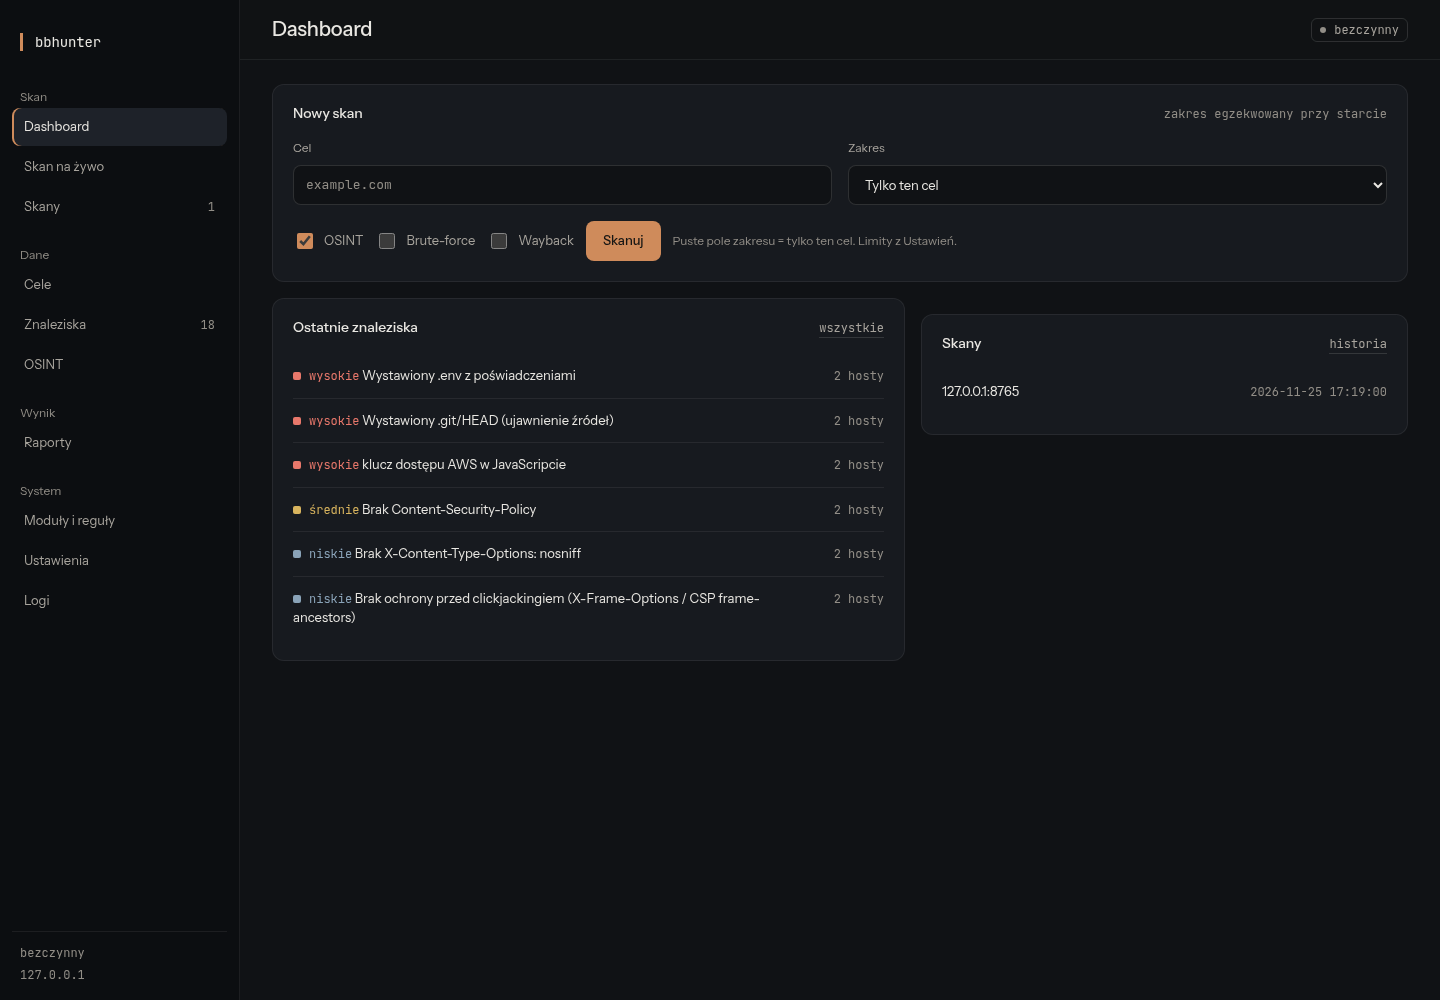
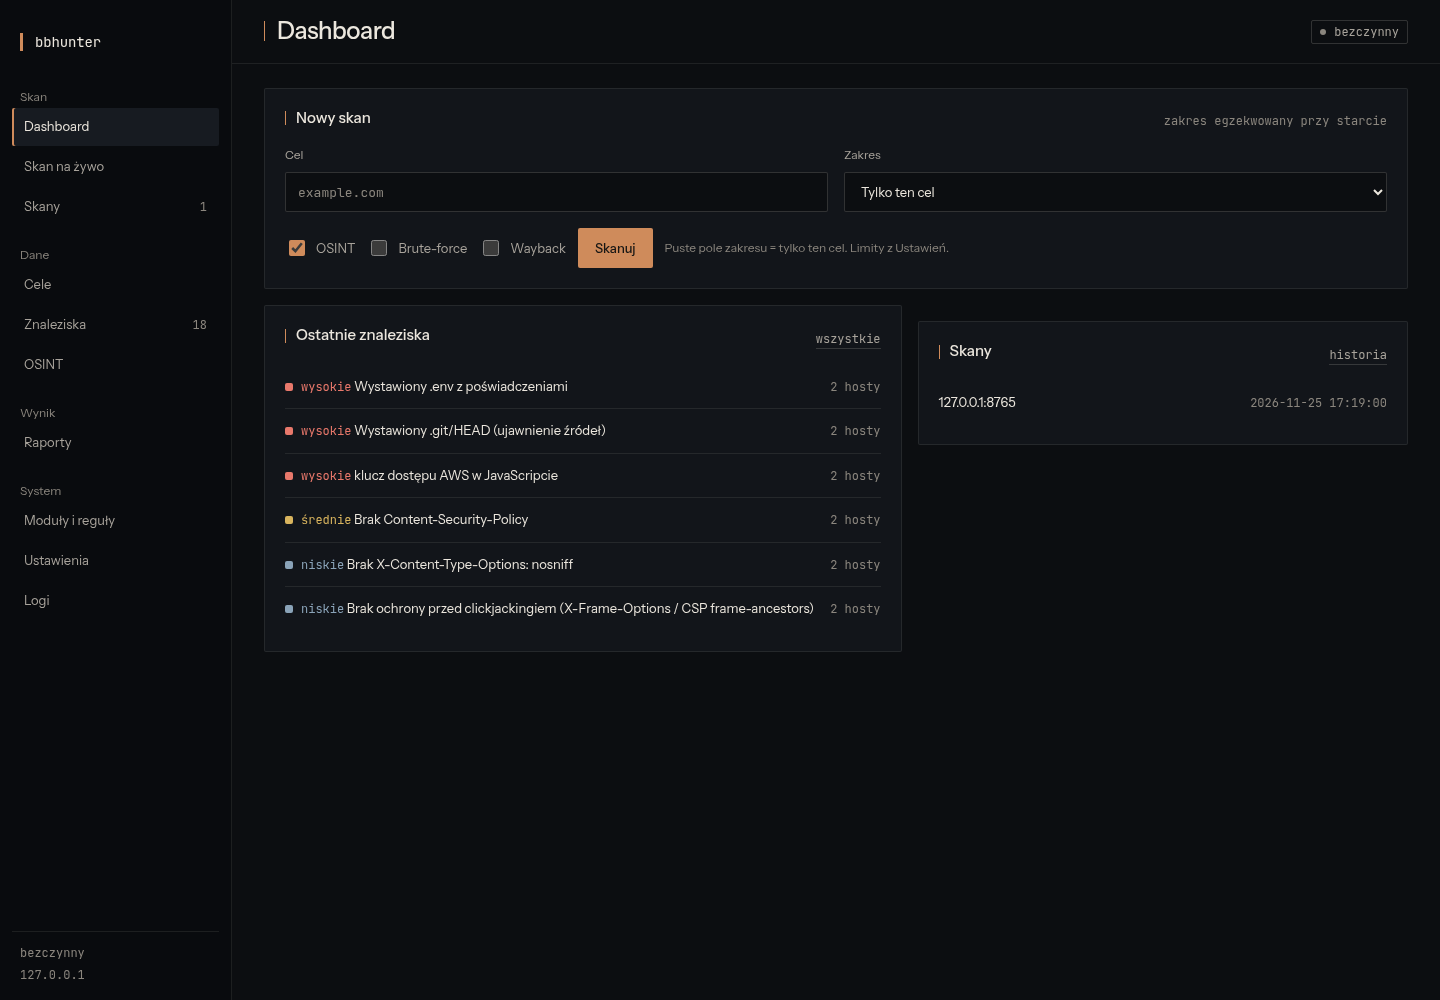
design: apply the product page language to the app shell
- cooler graphite palette, flat 2 px panels, copper primary action
- ticks before page and panel titles, mono labels, larger page title
- screenshots refreshed on the demo output only

diff --git a/src/ui/ui.css b/src/ui/ui.css
@@ -15,21 +15,21 @@
 }
 
 :root {
-  --app-bg: #101215;
-  --app-rail: #0c0e11;
-  --app-surface: #171a1f;
-  --app-raised: #1e2229;
-  --app-line: rgba(233, 231, 226, 0.08);
-  --app-line-strong: rgba(233, 231, 226, 0.14);
-  --app-text: #e9e7e2;
-  --app-text-2: #a8a49d;
-  --app-muted: #928e87;
+  --app-bg: #0c0e11;
+  --app-rail: #090b0e;
+  --app-surface: #12151a;
+  --app-raised: #171b21;
+  --app-line: rgba(236, 231, 222, 0.09);
+  --app-line-strong: rgba(236, 231, 222, 0.17);
+  --app-text: #ece7de;
+  --app-text-2: #a8a39b;
+  --app-muted: #8b867e;
   --ok: #8fb996;
-  --radius-panel: 12px;
-  --radius-control: 8px;
-  --radius-chip: 6px;
-  --rail-w: 240px;
-  --top-h: 60px;
+  --radius-panel: 2px;
+  --radius-control: 2px;
+  --radius-chip: 2px;
+  --rail-w: 232px;
+  --top-h: 64px;
 }
 
 html {
@@ -231,14 +231,25 @@ textarea {
   padding-inline: var(--space-8);
   background: color-mix(in srgb, var(--app-bg) 88%, transparent);
   border-block-end: 1px solid var(--app-line);
-  backdrop-filter: blur(8px);
+  background: var(--app-bg);
 }
 
 h1 {
-  font-size: var(--size-20);
-  line-height: var(--lh-heading);
+  display: flex;
+  align-items: center;
+  font-size: 24px;
+  line-height: 1.1;
   font-weight: 500;
-  letter-spacing: -0.01em;
+  letter-spacing: -0.02em;
+}
+
+h1::before {
+  content: "";
+  flex: none;
+  width: 1px;
+  height: 20px;
+  margin-inline-end: 12px;
+  background: var(--color-accent);
 }
 
 .topbar__right {
@@ -249,7 +260,7 @@ h1 {
 
 .view {
   width: 100%;
-  max-width: 1240px;
+  max-width: 1280px;
   padding: var(--space-6) var(--space-8) var(--space-12);
 }
 
@@ -345,6 +356,21 @@ h2 {
   font-size: var(--size-16);
   line-height: var(--lh-heading);
   font-weight: 500;
+}
+
+.panel__head h2 {
+  display: flex;
+  align-items: center;
+  gap: 10px;
+  font-size: 15px;
+}
+
+.panel__head h2::before {
+  content: "";
+  flex: none;
+  width: 1px;
+  height: 14px;
+  background: var(--color-accent);
 }
 
 h3 {
